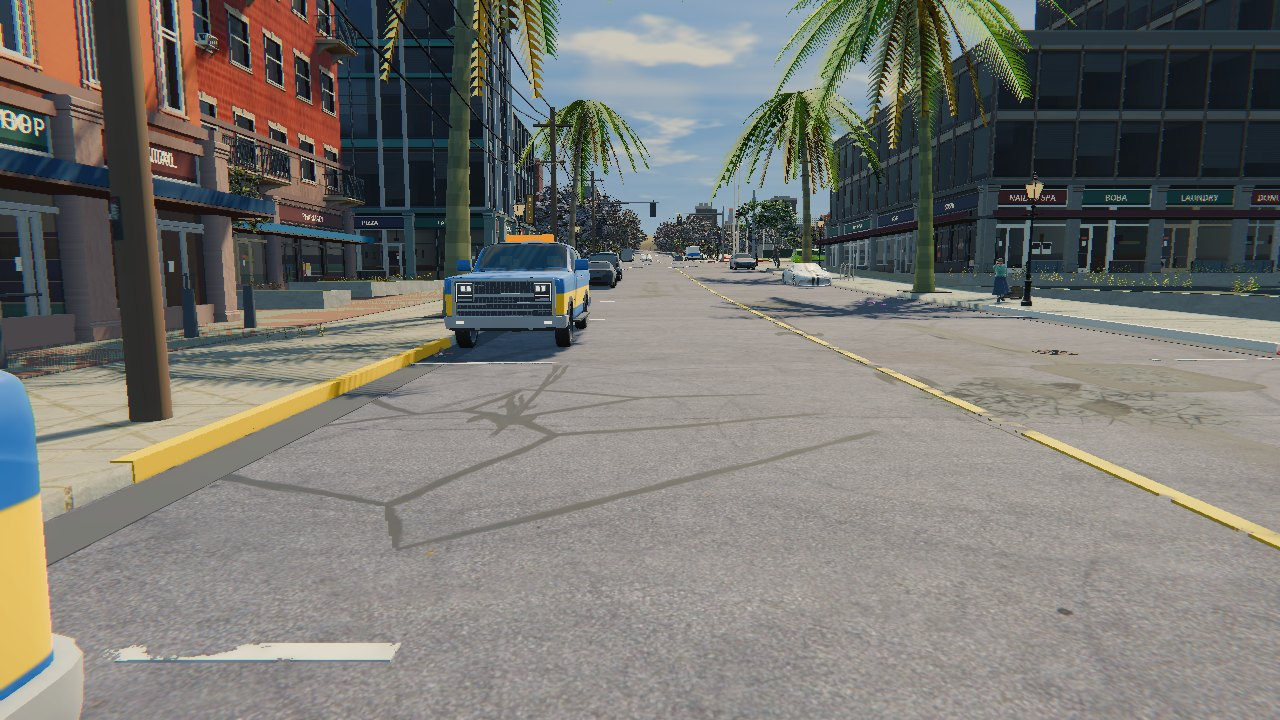
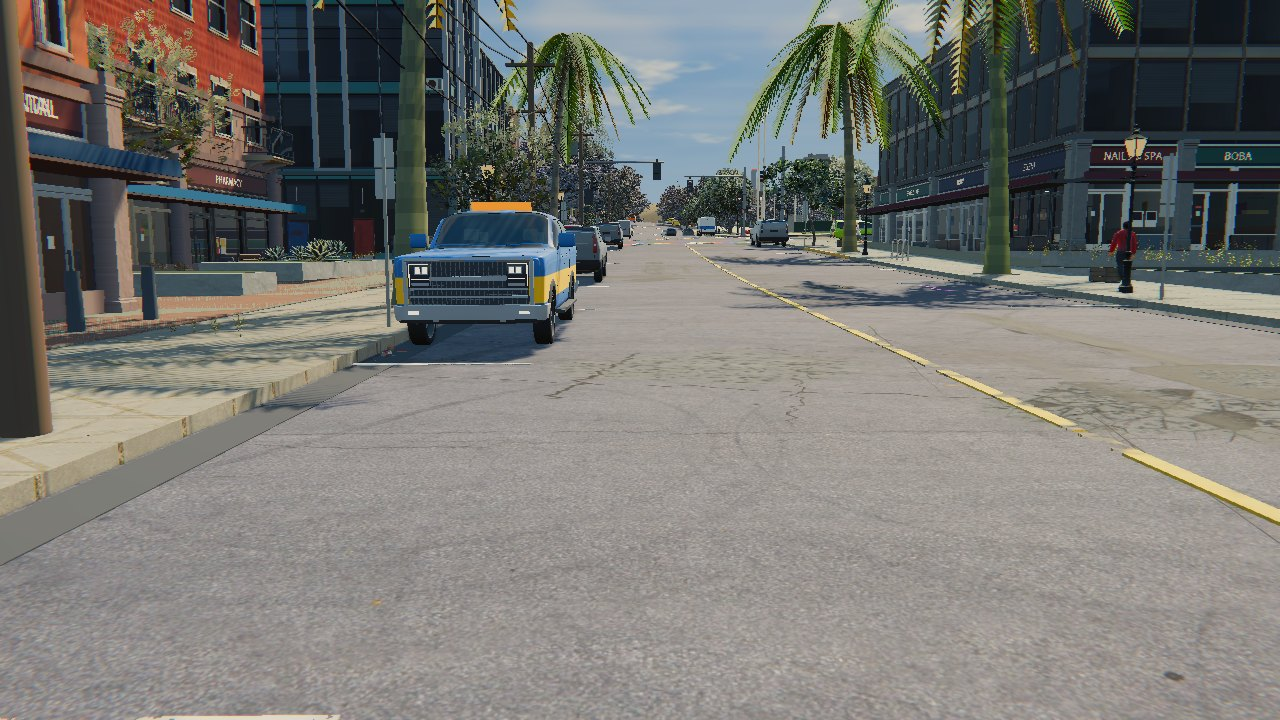
Road wear: re-shot 11, 13, 17 after the sealed-crack fix

diff --git a/README.md b/README.md
@@ -17,3 +17,5 @@ Final batch (after, branch head 29a000f; `tools/road_wear/shots.sh` places, `sti
 - 15 the same at 13:00 in rain: the hollow a mirror with rain rings.
 - 16 the midtown street in rain.
 - 17 the midtown street from 30 m up.
+
+Re-shot after the lead's review (11, 13, 17): sealed cracks are short wandering runs with gaps now, not ruled lines. 13 is now the city still from 7 m (was a block_shot); its pale soft rectangles are still LotFill's lot ground, unchanged with ROAD_WEAR=0.
